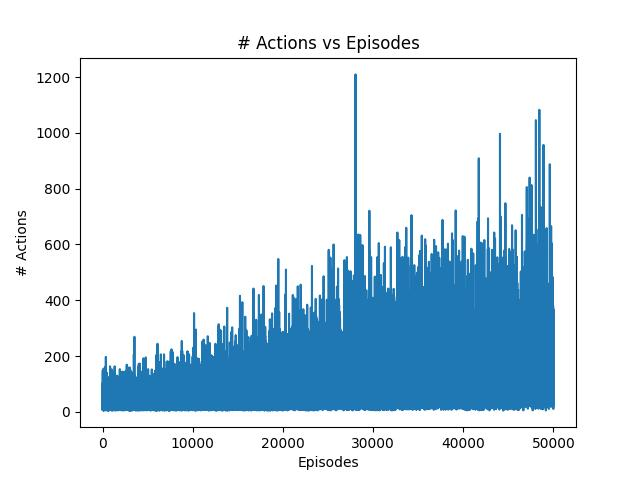
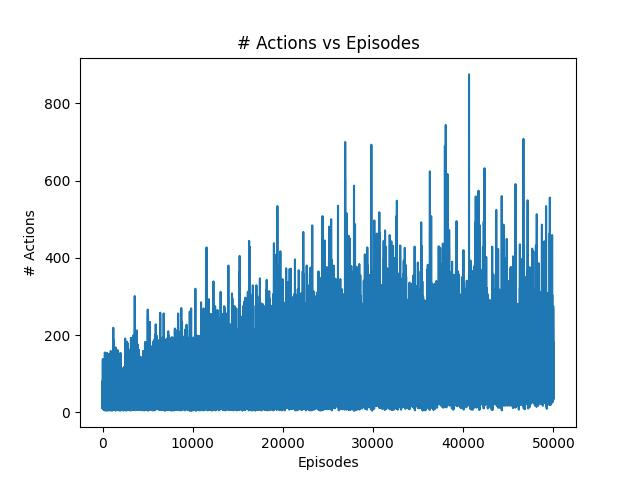
finalizado

diff --git a/src/part_03/FrozenLake.py b/src/part_03/FrozenLake.py
@@ -11,9 +11,9 @@ warnings.simplefilter("ignore")
 env = gym.make('FrozenLake-v1', map_name="8x8", render_mode='ansi').env
 
 # only execute the following lines if you want to create a new q-table
-# qlearn = QLearning(env, alpha=0.2, gamma=0.99, epsilon=1, epsilon_min=0.0000001, epsilon_dec=0.9999, episodes=50000)
-# q_table = qlearn.train('data/q-table-frozen-lake-qlearning.csv','results/frozen_lake_qlearning')
-q_table = loadtxt('data/q-table-frozen-lake-qlearning.csv', delimiter=',')
+qlearn = QLearning(env, alpha=0.2, gamma=0.99, epsilon=1, epsilon_min=0.00000001, epsilon_dec=0.9999, episodes=50000)
+q_table = qlearn.train('data/q-table-frozen-lake-qlearning.csv','results/frozen_lake_qlearning')
+# q_table = loadtxt('data/q-table-frozen-lake-qlearning.csv', delimiter=',')
 
 env = gym.make('FrozenLake-v1', map_name="8x8", render_mode='human').env
 

diff --git a/src/part_03/FrozenLakeSarsa.py b/src/part_03/FrozenLakeSarsa.py
@@ -10,7 +10,7 @@ warnings.simplefilter("ignore")
 env = gym.make('FrozenLake-v1', map_name="8x8", render_mode='ansi').env
 
 # only execute the following lines if you want to create a new q-table
-# qlearn = Sarsa(env, alpha=0.6, gamma=0.99, epsilon=1, epsilon_min=0.000005, epsilon_dec=0.9999, episodes=50000)
+# qlearn = Sarsa(env, alpha=0.3, gamma=0.99, epsilon=1, epsilon_min=0.000000005, epsilon_dec=0.9999, episodes=50000)
 # q_table = qlearn.train('data/q-table-frozen-lake-sarsa.csv','results/frozen_lake_sarsa')
 q_table = loadtxt('data/q-table-frozen-lake-sarsa.csv', delimiter=',')
 

diff --git a/src/part_03/QLearning.py b/src/part_03/QLearning.py
@@ -49,7 +49,13 @@ class QLearning:
                 # atualiza para o novo estado
                 state = next_state
                 actions=actions+1
-                rewards=rewards+reward
+                if reward == 1:
+                    rewards += 100
+                elif reward == 0 and not done:
+                    rewards -= 1
+                elif reward == 0 and done:
+                    rewards -= 100
+
 
             actions_per_episode.append(actions)
             if i % 100 == 0:

diff --git a/src/part_03/Sarsa.py b/src/part_03/Sarsa.py
@@ -43,7 +43,12 @@ class Sarsa:
                 state = next_state
                 a = a_prime
                 actions=actions+1
-                rewards=rewards+reward
+                if reward == 1:
+                    rewards += 100
+                elif reward == 0 and not done:
+                    rewards -= 1
+                elif reward == 0 and done:
+                    rewards -= 100
 
             actions_per_episode.append(actions)
             if i % 100 == 0:

diff --git a/src/part_03/FrozenLake100times.py b/src/part_03/FrozenLake100times.py
@@ -2,8 +2,8 @@ import gymnasium as gym
 import numpy as np
 from numpy import loadtxt
 
-env = gym.make('FrozenLake-v1', render_mode='ansi').env
-q_table = loadtxt('data/q-table-frozen-lake.csv', delimiter=',')
+env = gym.make('FrozenLake-v1', map_name="8x8", render_mode='ansi').env
+q_table = loadtxt('data/q-table-frozen-lake-qlearning.csv', delimiter=',')
 
 rewards = 0
 
